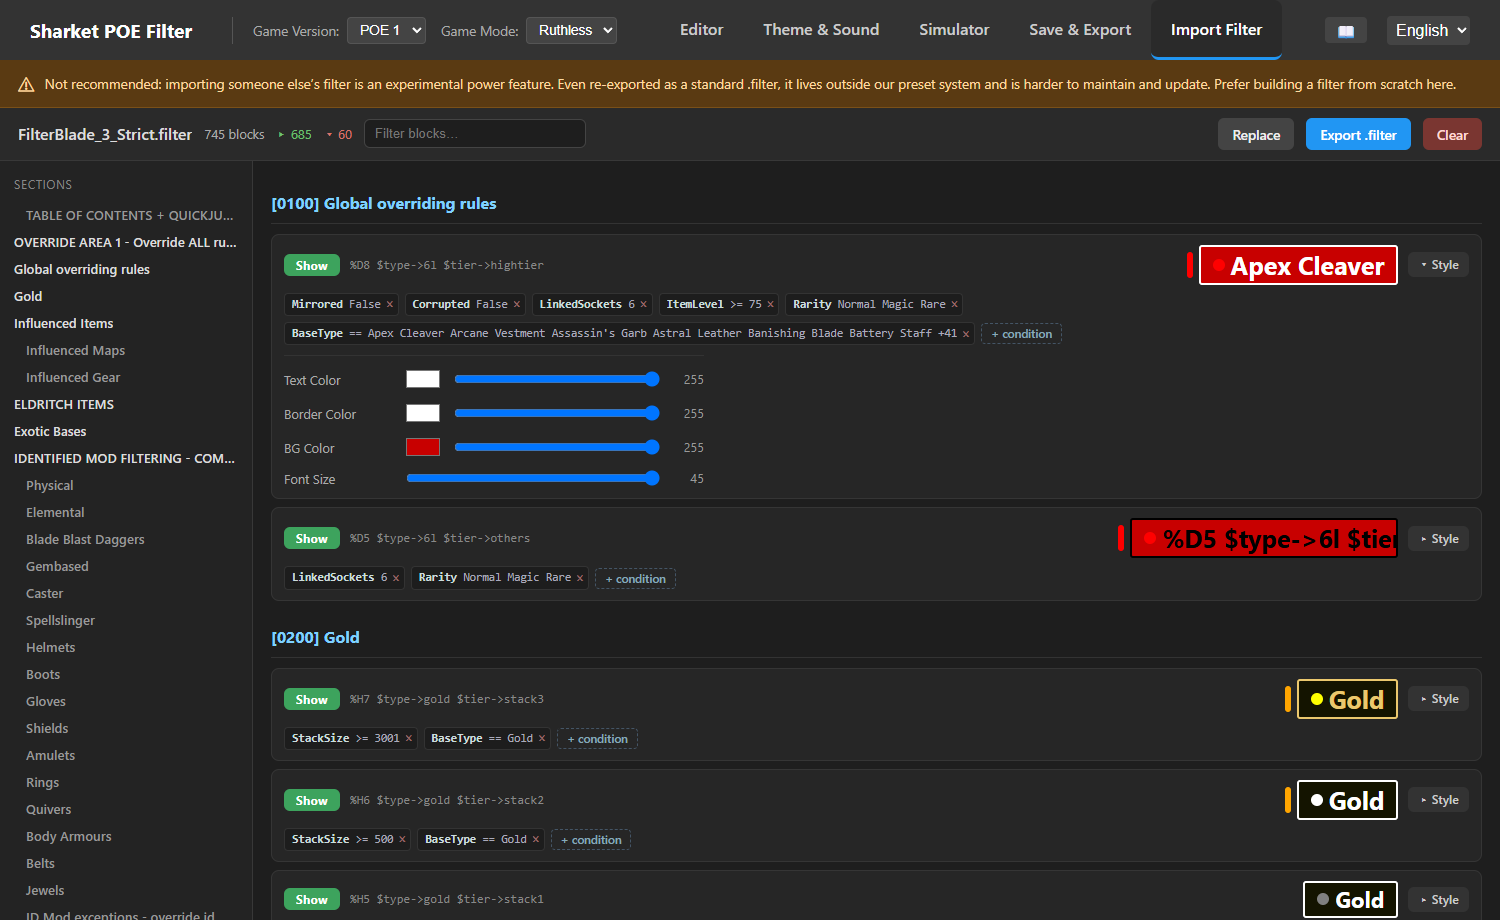
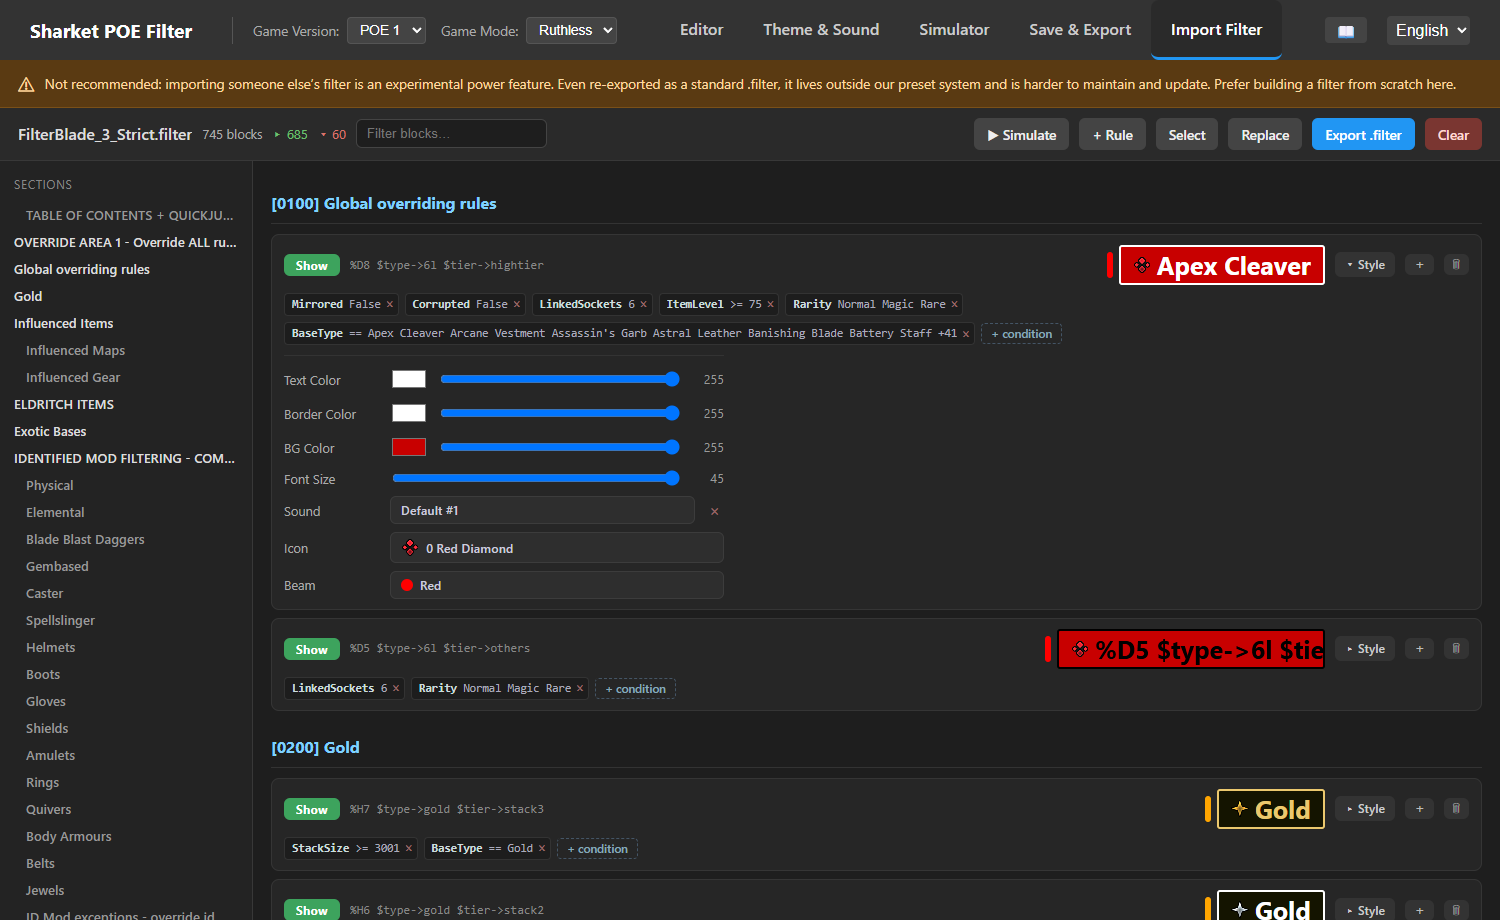
docs(manual): cover foreign-filter editing + simulator

diff --git a/webapp/frontend/public/manual/USER_MANUAL_EN.md b/webapp/frontend/public/manual/USER_MANUAL_EN.md
@@ -178,10 +178,22 @@ Press **Choose .filter file** and pick any filter. The app parses it **in its ow
 - **Sections sidebar** — if the filter has section markers (like NeverSink's `[[NNNN]]` headers) they become a clickable outline. Filters without markers are **auto-grouped by item class** instead, so you always have a way to navigate.
 - **Block cards** — each rule shows a Show/Hide badge (click to toggle), its conditions, and a live preview of the in-game label.
 - **Edit conditions** — click any condition to edit it as text, press the **×** to remove it, or **+ condition** to add one (e.g. `ItemLevel >= 84`).
-- **Edit style** — the **Style** button expands text / border / background color pickers and a font-size slider.
+- **Edit style** — the **Style** button expands text / border / background color pickers, a font-size slider, and **sound, minimap-icon and beam pickers** (the same ones used elsewhere in the app).
+- **Add / remove rules** — **+ Rule** adds a new block at the top; each card has **＋** (insert a rule below) and **🗑** (delete).
+- **Bulk restyle** — press **Select**, tick several rules, then apply Show/Hide, a colour, or a sound / icon / beam to all of them at once.
 - **Export .filter** re-exports the (edited) filter, ready to drop into the game.
 
 Your imported filter is kept in your browser until you press **Clear** or import another one.
+
+### Simulator
+
+Press **▶ Simulate** to see how the imported filter renders real drops. It generates random items and styles each one with the **first Show/Hide block it matches** — exactly as the game would. Set the **Area Level** and number of **Drops**, then press **Generate**.
+
+![Foreign filter simulator](images/en/08b-import-simulator.png)
+
+At least ~30% of the ground is guaranteed to be visible drops; the rest are random, with **hidden** items shown greyed-out so you can see what the filter suppresses. **Click any drop** to jump straight to the rule that styled it.
+
+> The simulator evaluates conditions like BaseType, Class, Rarity, item level, sockets and stack size. Rules gated on things it can't model (specific mods or enchantments) are skipped, so those items fall through to a rule it *can* verify.
 
 ## 7. Installing the filter in the game
 